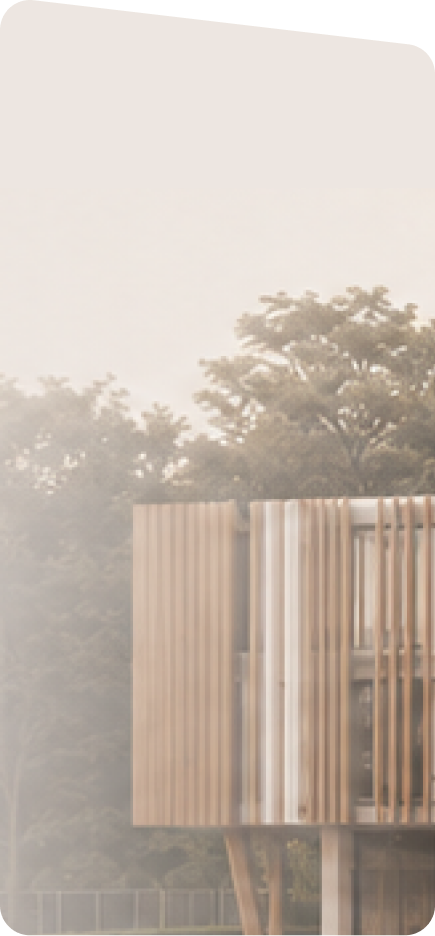
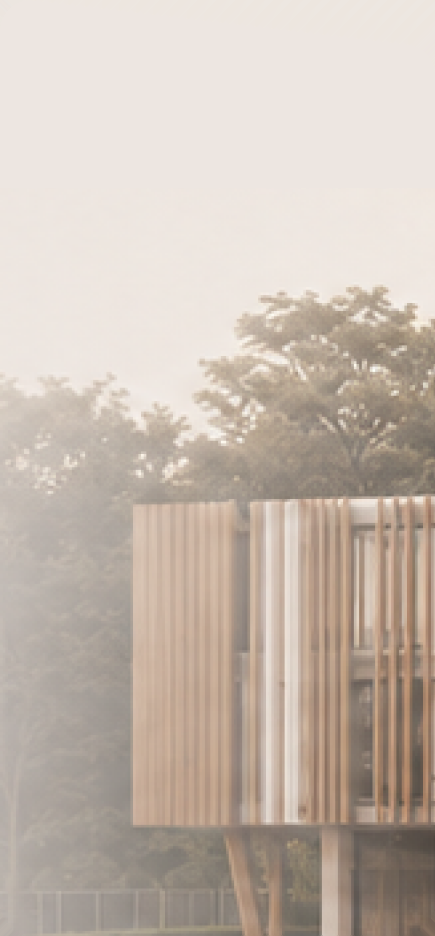
Белые уголки убраны: прозрачные углы PNG залиты цветом карточки (bleed), border-radius кладётся чисто; ?v=3

Changed region(s): [[0.1494, 0.0, 1.0, 0.0929], [0.0, 0.9605, 1.0, 1.0], [0.0, 0.0, 0.0299, 0.031]]

diff --git a/index.html b/index.html
@@ -317,12 +317,12 @@ für Investoren</div>
       <a class="lnk" href="#">Unsere Projekte sehen →</a>
     </div>
     <div class="cards">
-      <a class="ccard" href="https://atrea.org" target="_blank" rel="noopener"><img src="assets/img/cases/atrea.png?v=2" alt="Atrea"><div class="ccap"><b>Atrea</b><span>Internationales Geschäft</span></div><div class="carrow">→</div></a>
-      <a class="ccard" href="https://donauhoefe.de" target="_blank" rel="noopener"><img src="assets/img/cases/donau.png?v=2" alt="Donau Höfe"></a>
-      <a class="ccard" href="https://witzighausen-residenz.de" target="_blank" rel="noopener"><img src="assets/img/cases/witzighausen.png?v=2" alt="Witzighausen"><div class="ccap"><b>Witzighausen</b><span>Entwickler</span></div><div class="carrow">→</div></a>
-      <a class="ccard" href="https://edelhaus.de" target="_blank" rel="noopener"><img src="assets/img/cases/edelhaus.png?v=2" alt="Edelhaus"><div class="ccap"><b>Edelhaus</b><span>Immobilienagentur</span></div><div class="carrow">→</div></a>
-      <a class="ccard" href="https://ewig.me" target="_blank" rel="noopener"><img src="assets/img/cases/ewig.png?v=2" alt="ewig.me"></a>
-      <a class="ccard" style="background:#35343c;border-radius:14px" href="https://kissheaven9.github.io/aletia/" target="_blank" rel="noopener" data-project="aletia"><img src="assets/img/cases/aletia.png?v=2" alt="Aletia"></a>
+      <a class="ccard" href="https://atrea.org" target="_blank" rel="noopener"><img src="assets/img/cases/atrea.png?v=3" alt="Atrea"><div class="ccap"><b>Atrea</b><span>Internationales Geschäft</span></div><div class="carrow">→</div></a>
+      <a class="ccard" href="https://donauhoefe.de" target="_blank" rel="noopener"><img src="assets/img/cases/donau.png?v=3" alt="Donau Höfe"></a>
+      <a class="ccard" href="https://witzighausen-residenz.de" target="_blank" rel="noopener"><img src="assets/img/cases/witzighausen.png?v=3" alt="Witzighausen"><div class="ccap"><b>Witzighausen</b><span>Entwickler</span></div><div class="carrow">→</div></a>
+      <a class="ccard" href="https://edelhaus.de" target="_blank" rel="noopener"><img src="assets/img/cases/edelhaus.png?v=3" alt="Edelhaus"><div class="ccap"><b>Edelhaus</b><span>Immobilienagentur</span></div><div class="carrow">→</div></a>
+      <a class="ccard" href="https://ewig.me" target="_blank" rel="noopener"><img src="assets/img/cases/ewig.png?v=3" alt="ewig.me"></a>
+      <a class="ccard" style="background:#35343c;border-radius:14px" href="https://kissheaven9.github.io/aletia/" target="_blank" rel="noopener" data-project="aletia"><img src="assets/img/cases/aletia.png?v=3" alt="Aletia"></a>
     </div>
   </div>
   <img class="logos" src="assets/img/cases/logos.png" alt="Kunden">

diff --git a/live/index.html b/live/index.html
@@ -317,12 +317,12 @@ für Investoren</div>
       <a class="lnk" href="#">Unsere Projekte sehen →</a>
     </div>
     <div class="cards">
-      <a class="ccard" href="https://atrea.org" target="_blank" rel="noopener"><img src="assets/img/cases/atrea.png?v=2" alt="Atrea"><div class="ccap"><b>Atrea</b><span>Internationales Geschäft</span></div><div class="carrow">→</div></a>
-      <a class="ccard" href="https://donauhoefe.de" target="_blank" rel="noopener"><img src="assets/img/cases/donau.png?v=2" alt="Donau Höfe"></a>
-      <a class="ccard" href="https://witzighausen-residenz.de" target="_blank" rel="noopener"><img src="assets/img/cases/witzighausen.png?v=2" alt="Witzighausen"><div class="ccap"><b>Witzighausen</b><span>Entwickler</span></div><div class="carrow">→</div></a>
-      <a class="ccard" href="https://edelhaus.de" target="_blank" rel="noopener"><img src="assets/img/cases/edelhaus.png?v=2" alt="Edelhaus"><div class="ccap"><b>Edelhaus</b><span>Immobilienagentur</span></div><div class="carrow">→</div></a>
-      <a class="ccard" href="https://ewig.me" target="_blank" rel="noopener"><img src="assets/img/cases/ewig.png?v=2" alt="ewig.me"></a>
-      <a class="ccard" style="background:#35343c;border-radius:14px" href="https://kissheaven9.github.io/aletia/" target="_blank" rel="noopener" data-project="aletia"><img src="assets/img/cases/aletia.png?v=2" alt="Aletia"></a>
+      <a class="ccard" href="https://atrea.org" target="_blank" rel="noopener"><img src="assets/img/cases/atrea.png?v=3" alt="Atrea"><div class="ccap"><b>Atrea</b><span>Internationales Geschäft</span></div><div class="carrow">→</div></a>
+      <a class="ccard" href="https://donauhoefe.de" target="_blank" rel="noopener"><img src="assets/img/cases/donau.png?v=3" alt="Donau Höfe"></a>
+      <a class="ccard" href="https://witzighausen-residenz.de" target="_blank" rel="noopener"><img src="assets/img/cases/witzighausen.png?v=3" alt="Witzighausen"><div class="ccap"><b>Witzighausen</b><span>Entwickler</span></div><div class="carrow">→</div></a>
+      <a class="ccard" href="https://edelhaus.de" target="_blank" rel="noopener"><img src="assets/img/cases/edelhaus.png?v=3" alt="Edelhaus"><div class="ccap"><b>Edelhaus</b><span>Immobilienagentur</span></div><div class="carrow">→</div></a>
+      <a class="ccard" href="https://ewig.me" target="_blank" rel="noopener"><img src="assets/img/cases/ewig.png?v=3" alt="ewig.me"></a>
+      <a class="ccard" style="background:#35343c;border-radius:14px" href="https://kissheaven9.github.io/aletia/" target="_blank" rel="noopener" data-project="aletia"><img src="assets/img/cases/aletia.png?v=3" alt="Aletia"></a>
     </div>
   </div>
   <img class="logos" src="assets/img/cases/logos.png" alt="Kunden">
